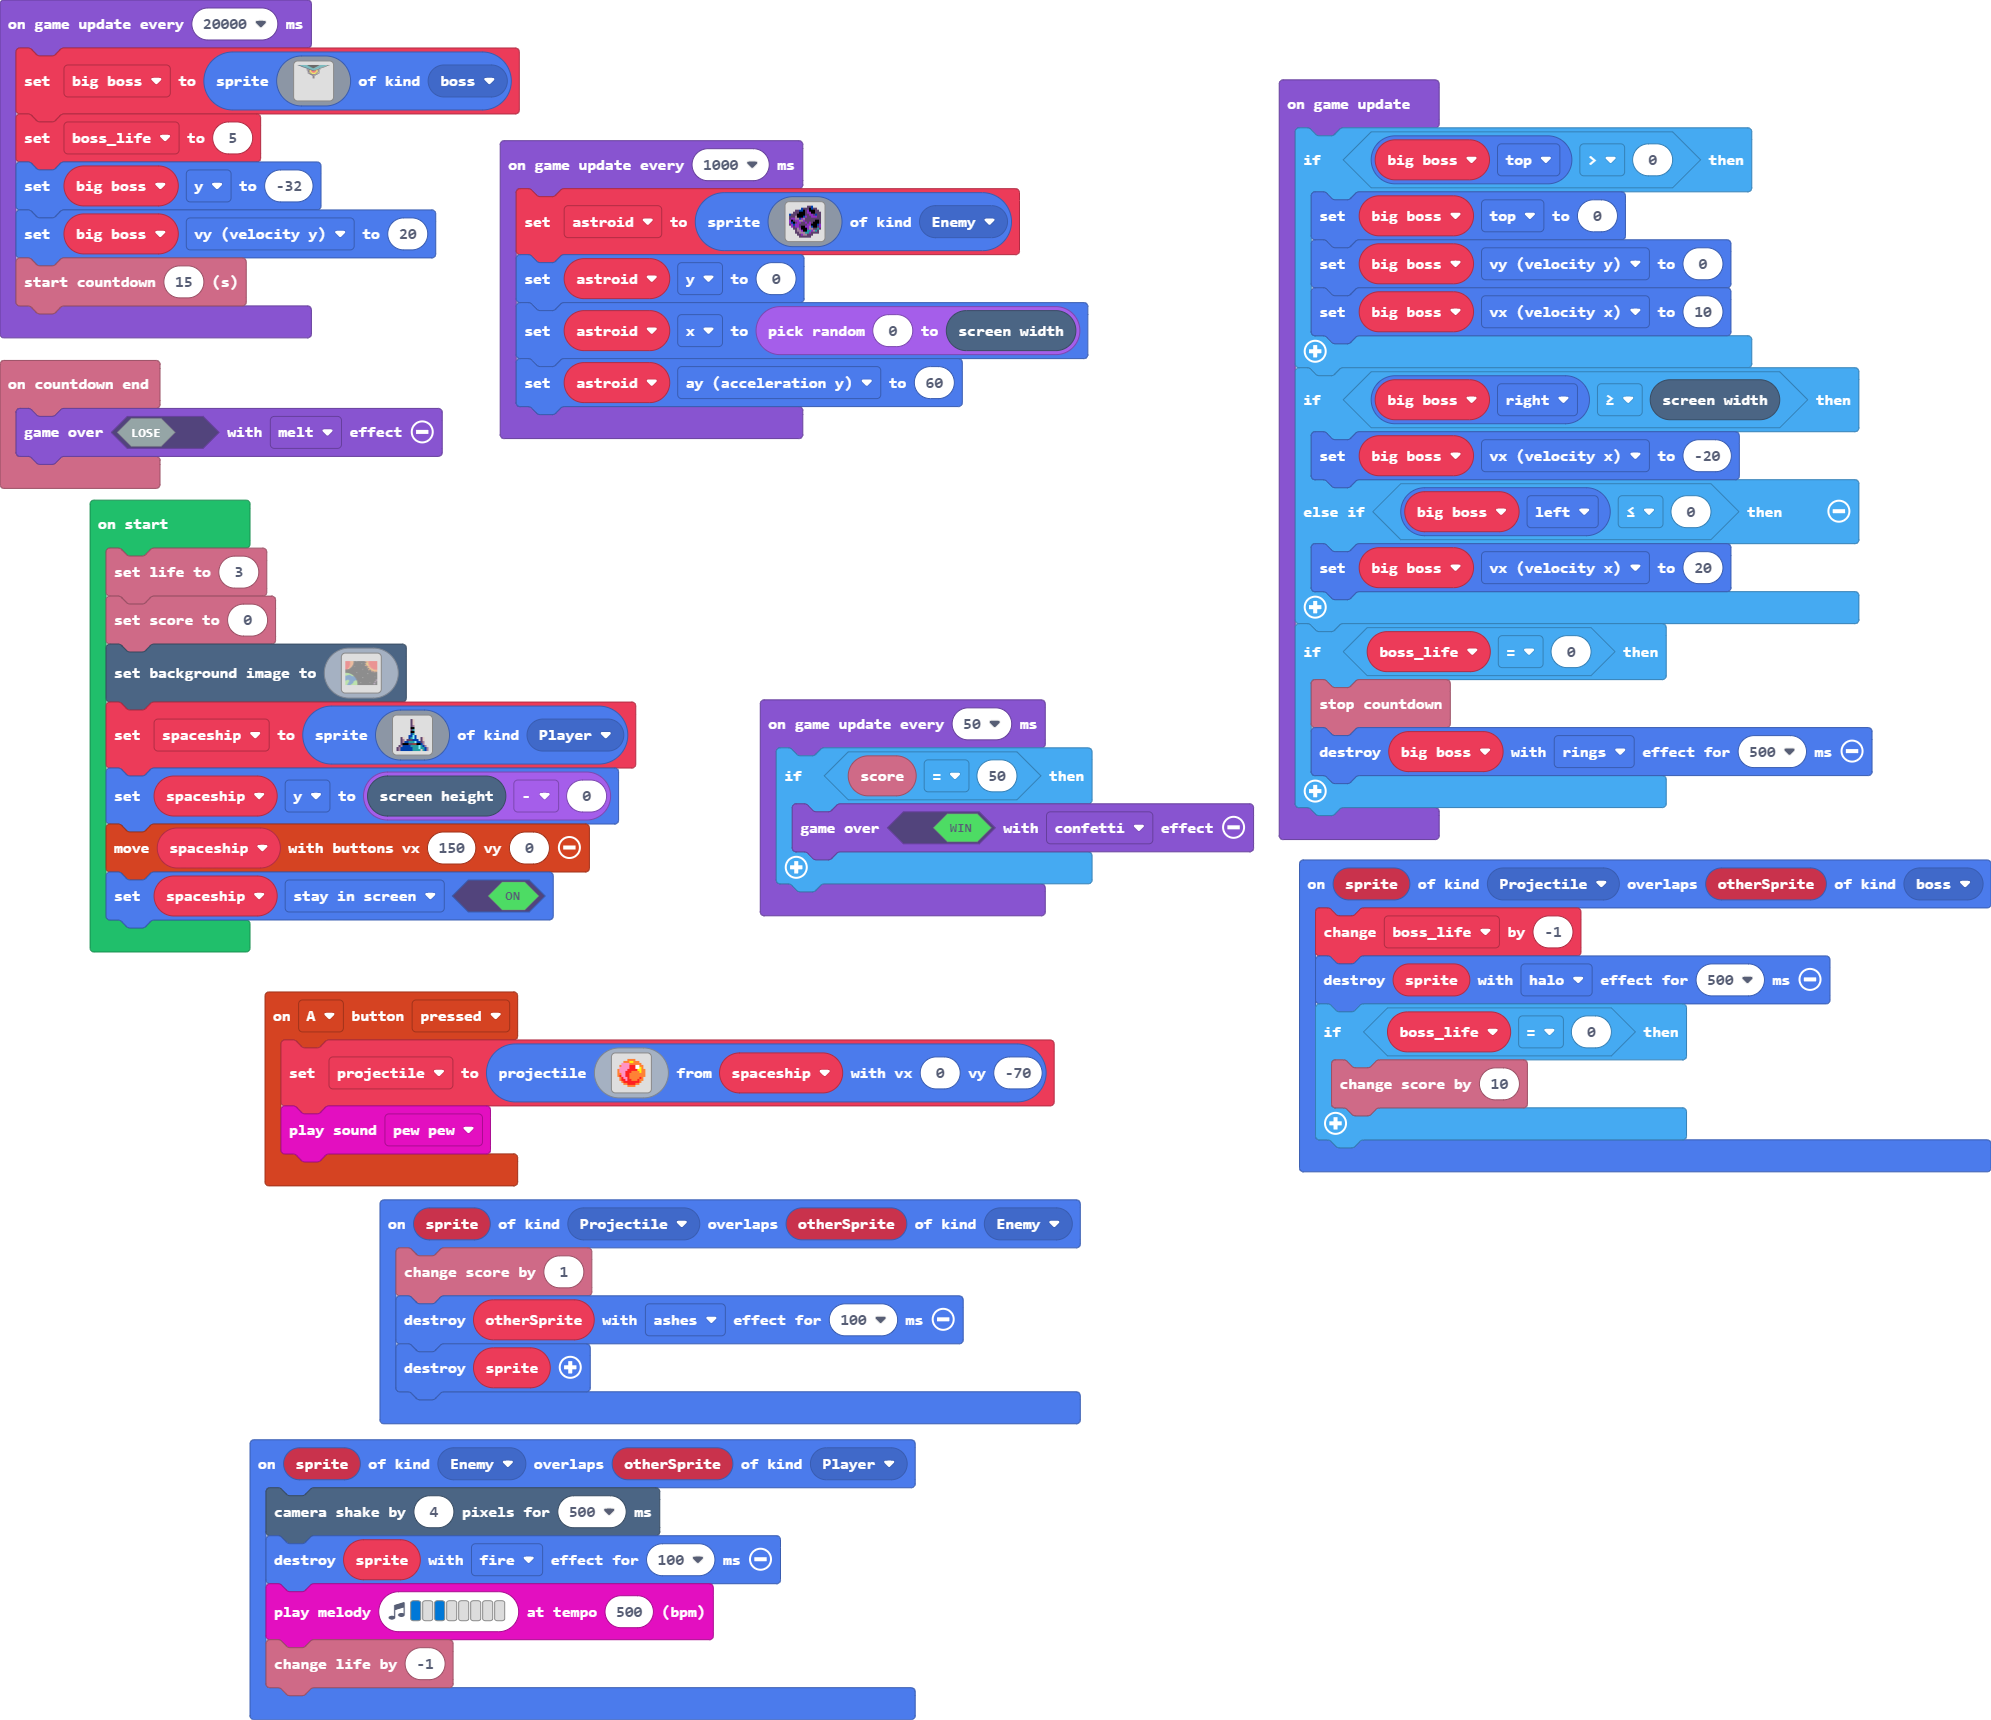
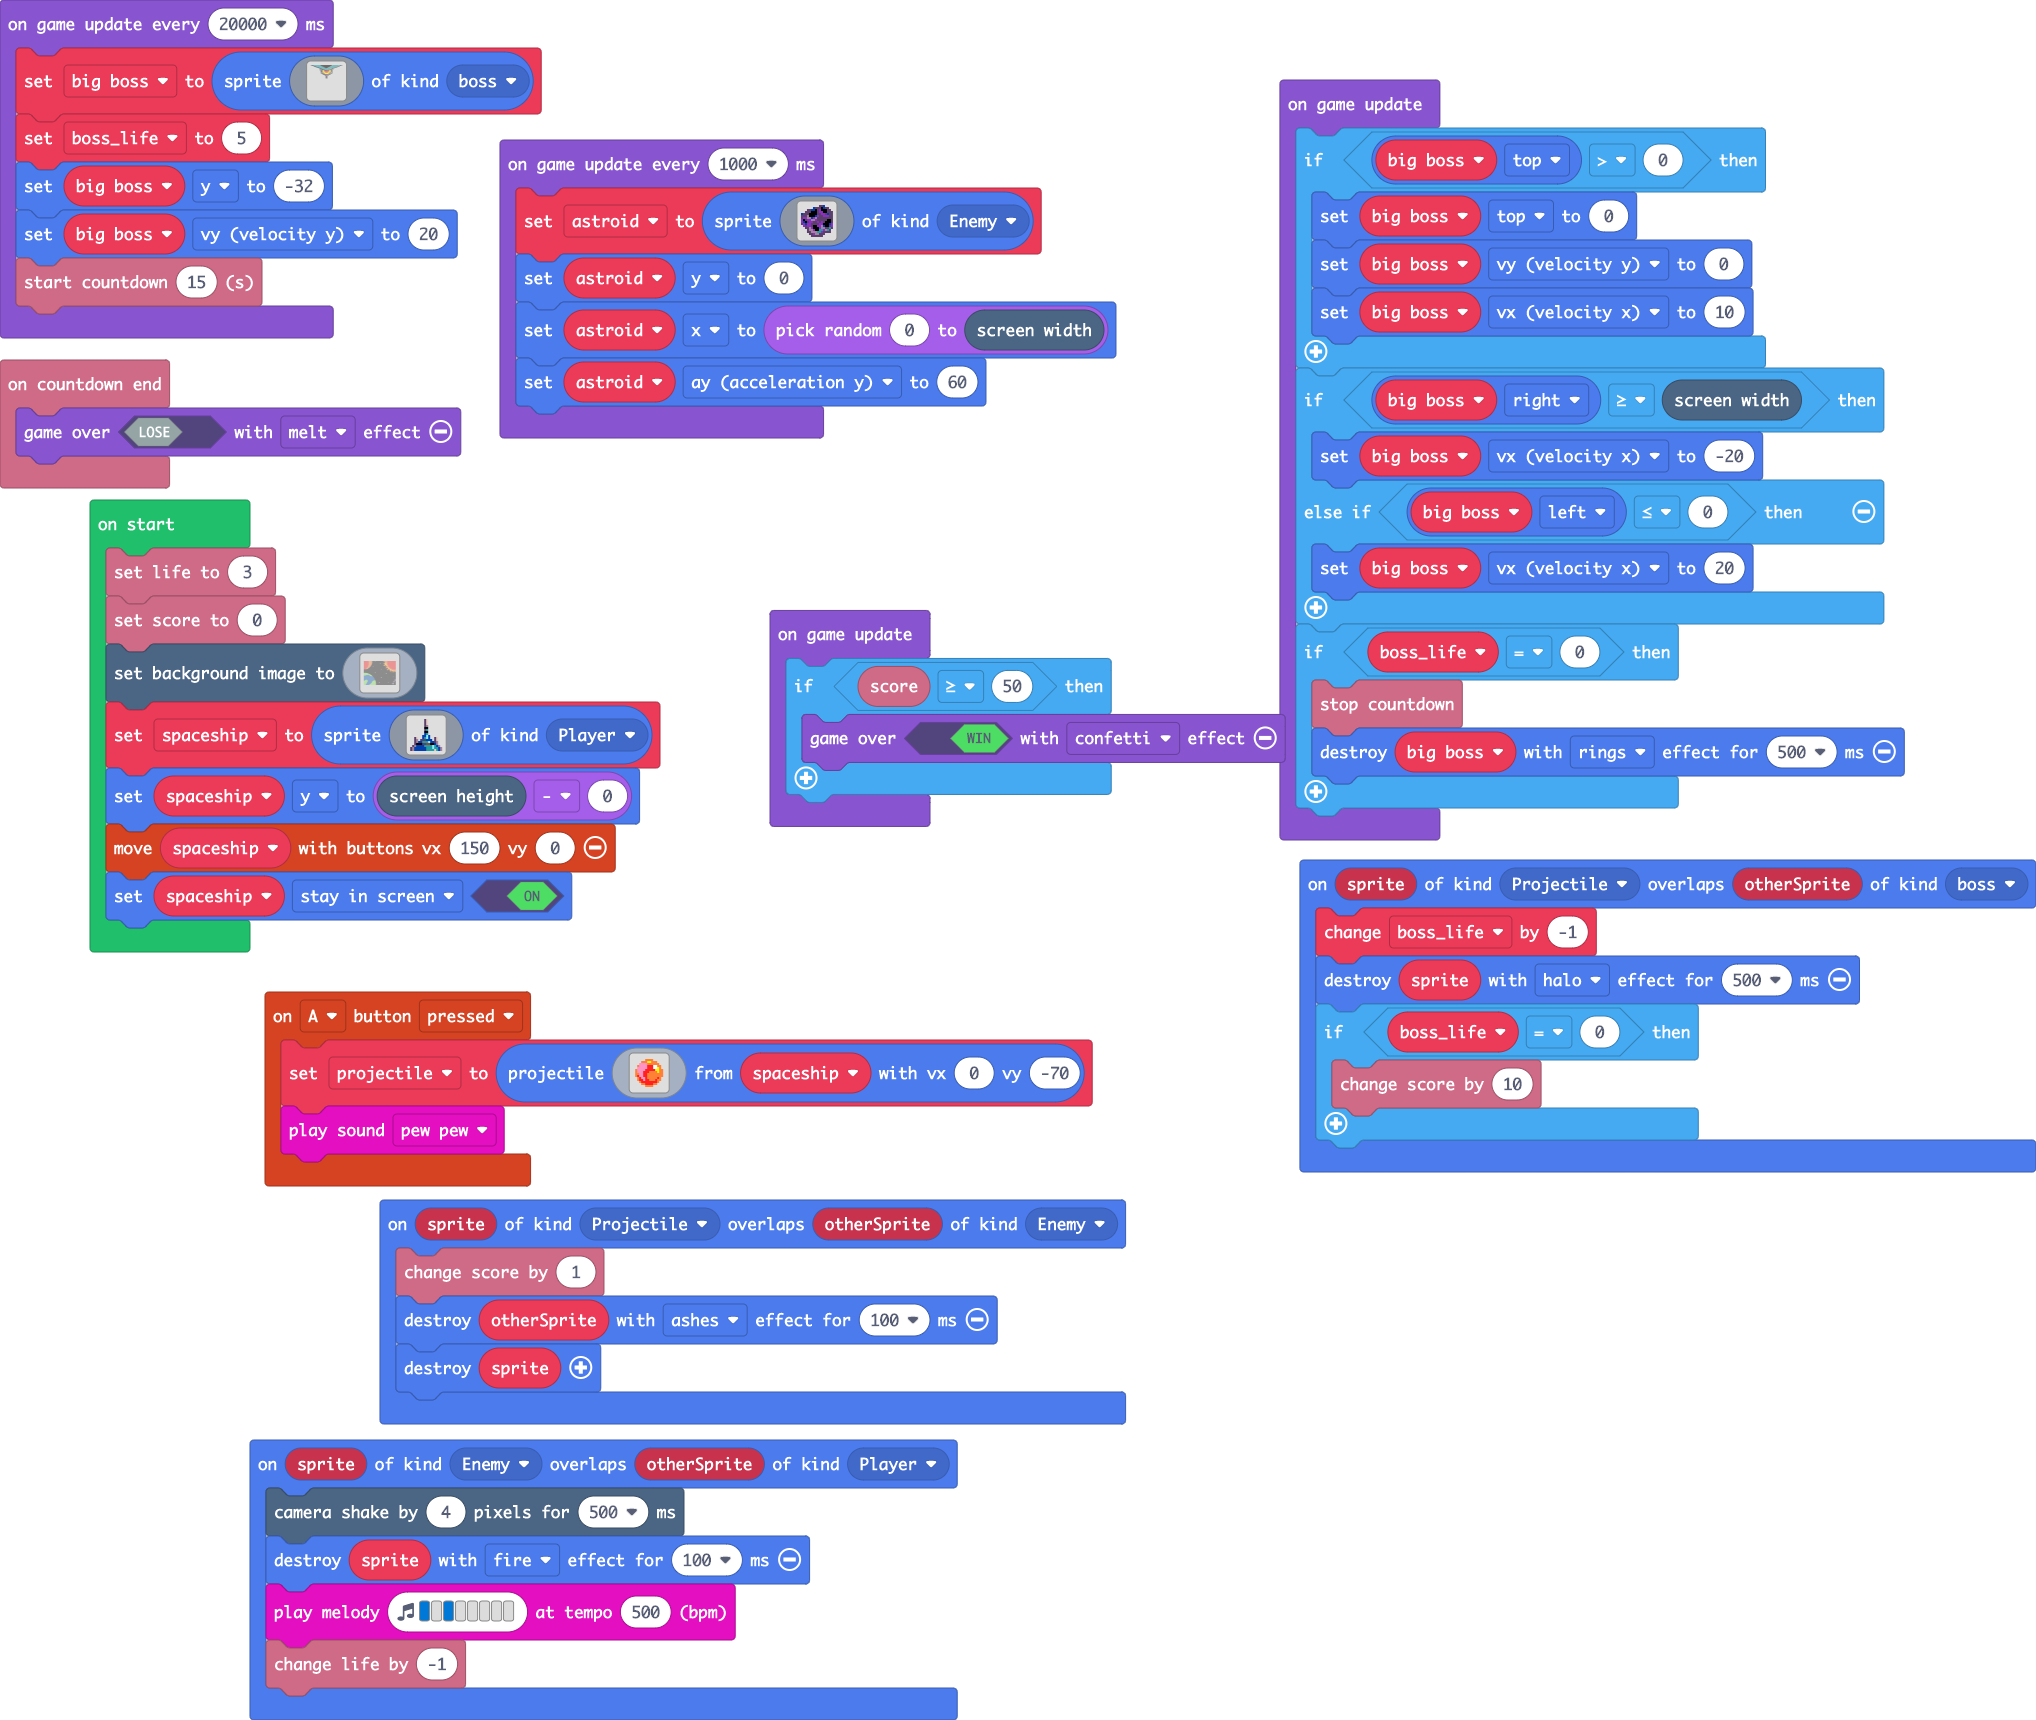
Update main.blocks, main.ts

diff --git a/main.ts b/main.ts
@@ -209,8 +209,8 @@ game.onUpdate(function () {
         big_boss.destroy(effects.rings, 500)
     }
 })
-game.onUpdateInterval(50, function () {
-    if (info.score() == 50) {
+game.onUpdate(function () {
+    if (info.score() >= 50) {
         game.over(true, effects.confetti)
     }
 })
@@ -239,13 +239,13 @@ game.onUpdateInterval(1000, function () {
 })
 game.onUpdateInterval(20000, function () {
     big_boss = sprites.create(img`
-        .ff86666666666666666fffffffffffffffffffffffb66666666666666661ff.
-        ...fff866666666666666fffffffffffffffffffffb666666666666661fff...
-        ......ff866666666666666fffffffffffffffffb666666666666661ff......
-        ........fff86666666666666fffffffffffffb66666666666661fff........
-        ...........fff8666666666666fffffffffb6666666666661fff...........
-        ..............fff866666666666fffffb666666666661fff..............
-        .................ff866666666666fb666666666661ff.................
+        .ff86666666666666666fffffffffffffffffffffffd66666666666666661ff.
+        ...fff866666666666666fffffffffffffffffffffd666666666666661fff...
+        ......ff866666666666666fffffffffffffffffd666666666666661ff......
+        ........fff86666666666666fffffffffffffd66666666666661fff........
+        ...........fff8666666666666fffffffffd6666666666661fff...........
+        ..............fff866666666666fffffd666666666661fff..............
+        .................ff866666666666fd666666666661ff.................
         ...................fff86666666666666666661fff...................
         ...................fcbfff86666666666661fffbdf...................
         ...................fcbbf5ff8666666661ff5fbdf....................
